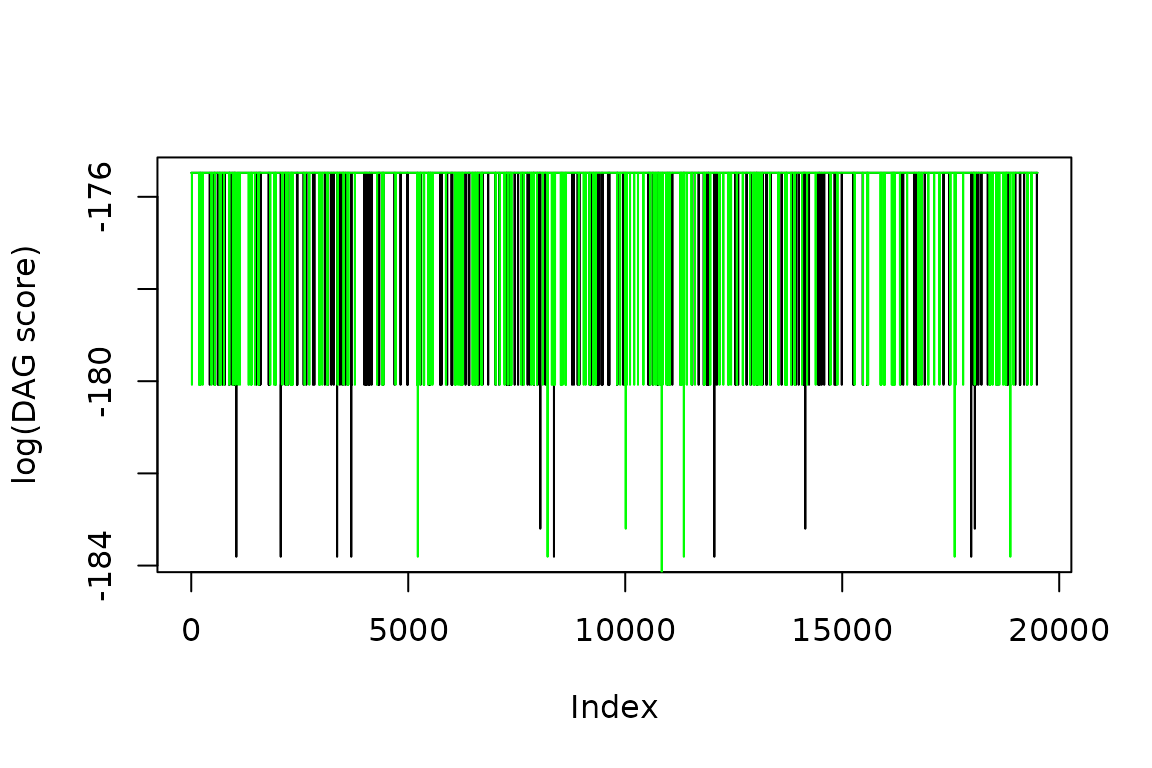
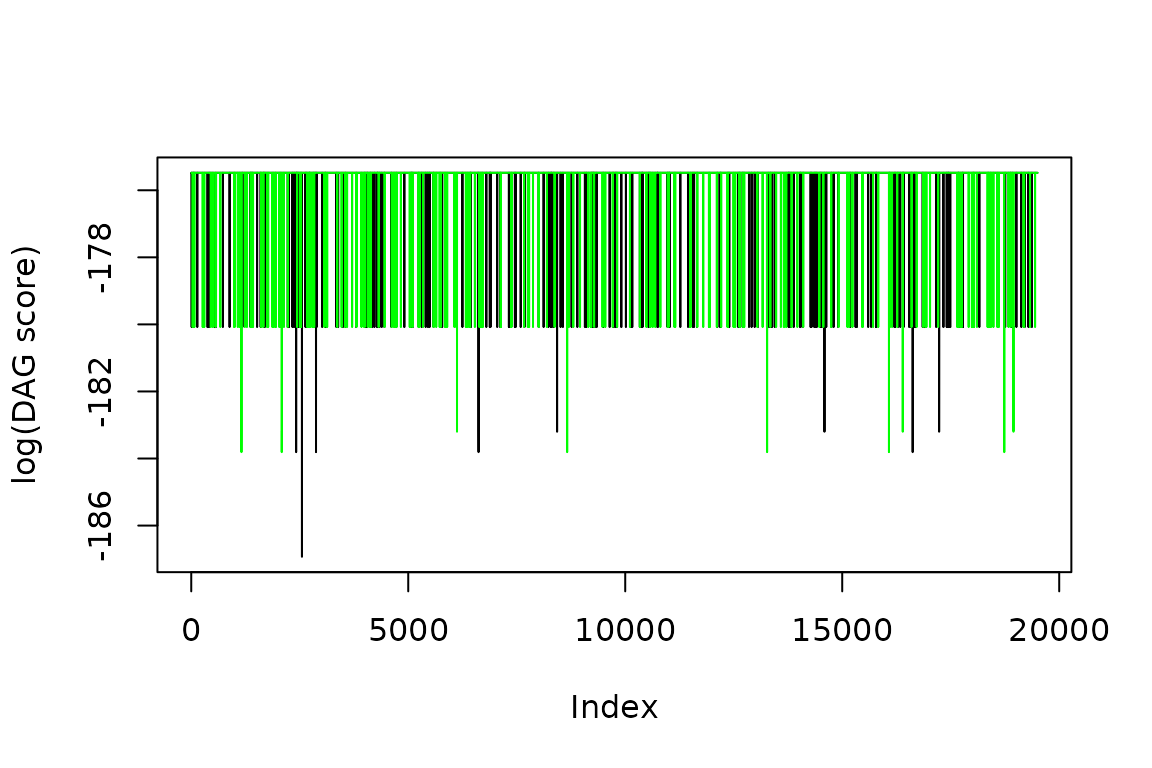
Deploying to gh-pages from @ SpaceOdyssey/cia@616d849b5fc8180c3674a726a4c7c756c6bca079 🚀

diff --git a/articles/three_node_example.html b/articles/three_node_example.html
@@ -327,11 +327,11 @@ this for the log-score of the partitions:</p>
 <th align="right">R_hat</th>
 </tr></thead>
 <tbody><tr class="odd">
-<td align="right">-175.5363</td>
-<td align="right">0.5430065</td>
-<td align="right">0.0066452</td>
-<td align="right">6677.212</td>
-<td align="right">1.000093</td>
+<td align="right">-175.5326</td>
+<td align="right">0.5336984</td>
+<td align="right">0.0064915</td>
+<td align="right">6759.358</td>
+<td align="right">1.000343</td>
 </tr></tbody>
 </table>
 <p>This can also be performed for the log DAG scores.</p>
@@ -346,11 +346,11 @@ this for the log-score of the partitions:</p>
 <th align="right">R_hat</th>
 </tr></thead>
 <tbody><tr class="odd">
-<td align="right">-175.5721</td>
-<td align="right">0.6598133</td>
-<td align="right">0.0069661</td>
-<td align="right">8971.361</td>
-<td align="right">1.000039</td>
+<td align="right">-175.5692</td>
+<td align="right">0.6527434</td>
+<td align="right">0.0066557</td>
+<td align="right">9618.151</td>
+<td align="right">1.000253</td>
 </tr></tbody>
 </table>
 <p>The Split R-hat statistic provides a measure of the convergence of
@@ -410,18 +410,18 @@ from different locations converge to the same distribution.</p>
 <tbody>
 <tr class="odd">
 <td align="left">1</td>
-<td align="right">0.1182051</td>
+<td align="right">0.1194872</td>
 <td align="right">1</td>
 <td align="right">1</td>
-<td align="right">2305</td>
+<td align="right">2330</td>
 <td align="right">19500</td>
 </tr>
 <tr class="even">
 <td align="left">2</td>
-<td align="right">0.1172308</td>
+<td align="right">0.1186154</td>
 <td align="right">1</td>
 <td align="right">1</td>
-<td align="right">2286</td>
+<td align="right">2313</td>
 <td align="right">19500</td>
 </tr>
 </tbody>
@@ -491,19 +491,19 @@ DAGs.</p>
 <tr class="odd">
 <td align="left">A</td>
 <td align="right">0.0000000</td>
-<td align="right">0.3198205</td>
-<td align="right">0.0097436</td>
+<td align="right">0.3138718</td>
+<td align="right">0.0091795</td>
 </tr>
 <tr class="even">
 <td align="left">B</td>
-<td align="right">0.6798462</td>
+<td align="right">0.6857949</td>
 <td align="right">0.0000000</td>
-<td align="right">0.6779744</td>
+<td align="right">0.6724103</td>
 </tr>
 <tr class="odd">
 <td align="left">C</td>
-<td align="right">0.0098718</td>
-<td align="right">0.3220256</td>
+<td align="right">0.0095385</td>
+<td align="right">0.3275897</td>
 <td align="right">0.0000000</td>
 </tr>
 </tbody>
@@ -546,25 +546,25 @@ to reduce the error of the mean to below 1% corresponding to MCSE &lt;
 <td align="right">NaN</td>
 </tr>
 <tr class="even">
-<td align="right">0.6798462</td>
-<td align="right">0.4665415</td>
-<td align="right">0.0102084</td>
-<td align="right">2088.644</td>
-<td align="right">1.0003577</td>
+<td align="right">0.6857949</td>
+<td align="right">0.4642045</td>
+<td align="right">0.0100237</td>
+<td align="right">2144.696</td>
+<td align="right">1.0027498</td>
 </tr>
 <tr class="odd">
-<td align="right">0.0098718</td>
-<td align="right">0.0988665</td>
-<td align="right">0.0009118</td>
-<td align="right">11756.215</td>
-<td align="right">1.0000558</td>
+<td align="right">0.0095385</td>
+<td align="right">0.0971994</td>
+<td align="right">0.0008273</td>
+<td align="right">13805.473</td>
+<td align="right">0.9999966</td>
 </tr>
 <tr class="even">
-<td align="right">0.3198205</td>
-<td align="right">0.4664128</td>
-<td align="right">0.0102025</td>
-<td align="right">2089.905</td>
-<td align="right">1.0003584</td>
+<td align="right">0.3138718</td>
+<td align="right">0.4640709</td>
+<td align="right">0.0100263</td>
+<td align="right">2142.350</td>
+<td align="right">1.0027350</td>
 </tr>
 <tr class="odd">
 <td align="right">0.0000000</td>
@@ -574,25 +574,25 @@ to reduce the error of the mean to below 1% corresponding to MCSE &lt;
 <td align="right">NaN</td>
 </tr>
 <tr class="even">
-<td align="right">0.3220256</td>
-<td align="right">0.4672587</td>
-<td align="right">0.0098981</td>
-<td align="right">2228.512</td>
-<td align="right">1.0004477</td>
+<td align="right">0.3275897</td>
+<td align="right">0.4693403</td>
+<td align="right">0.0099278</td>
+<td align="right">2234.941</td>
+<td align="right">1.0023459</td>
 </tr>
 <tr class="odd">
-<td align="right">0.0097436</td>
-<td align="right">0.0982288</td>
-<td align="right">0.0008828</td>
-<td align="right">12381.368</td>
-<td align="right">0.9999734</td>
+<td align="right">0.0091795</td>
+<td align="right">0.0953701</td>
+<td align="right">0.0008003</td>
+<td align="right">14202.732</td>
+<td align="right">1.0002640</td>
 </tr>
 <tr class="even">
-<td align="right">0.6779744</td>
-<td align="right">0.4672587</td>
-<td align="right">0.0098981</td>
-<td align="right">2228.512</td>
-<td align="right">1.0004477</td>
+<td align="right">0.6724103</td>
+<td align="right">0.4693403</td>
+<td align="right">0.0099278</td>
+<td align="right">2234.941</td>
+<td align="right">1.0023459</td>
 </tr>
 <tr class="odd">
 <td align="right">0.0000000</td>
@@ -675,19 +675,19 @@ performed for these values for a complete analysis.</p>
 <tr class="odd">
 <td align="left">A</td>
 <td align="right">0.0000000</td>
-<td align="right">0.3199487</td>
-<td align="right">0.3185897</td>
+<td align="right">0.3140000</td>
+<td align="right">0.3131026</td>
 </tr>
 <tr class="even">
 <td align="left">B</td>
-<td align="right">0.6799744</td>
+<td align="right">0.6858718</td>
 <td align="right">0.0000000</td>
-<td align="right">0.6779744</td>
+<td align="right">0.6724103</td>
 </tr>
 <tr class="odd">
 <td align="left">C</td>
-<td align="right">0.3213333</td>
-<td align="right">0.3220256</td>
+<td align="right">0.3271282</td>
+<td align="right">0.3275897</td>
 <td align="right">0.0000000</td>
 </tr>
 </tbody>
@@ -746,11 +746,11 @@ SD 95% of the time.</p>
 <th align="right">R_hat</th>
 </tr></thead>
 <tbody><tr class="odd">
-<td align="right">0.6636853</td>
-<td align="right">0.1260443</td>
-<td align="right">0.0027593</td>
-<td align="right">2086.702</td>
-<td align="right">1.000358</td>
+<td align="right">0.6652984</td>
+<td align="right">0.1254295</td>
+<td align="right">0.0027098</td>
+<td align="right">2142.52</td>
+<td align="right">1.002745</td>
 </tr></tbody>
 </table>
 <p>Let’s also look at the convergence using the cumulative mean trace

diff --git a/index.html b/index.html
@@ -65,7 +65,7 @@
 <div class="section level2">
 <h2 id="use">Use<a class="anchor" aria-label="anchor" href="#use"></a>
 </h2>
-<p>There is function documentation along with an example in the vignettes.</p>
+<p>We provide a simple <a href="https://spaceodyssey.github.io/cia/articles/three_node_example.html">example</a> and function <a href="https://spaceodyssey.github.io/cia/reference/index.html">documentation</a>.</p>
 <p><a href="https://github.com/SpaceOdyssey/cia/actions/workflows/R-CMD-check.yaml" class="external-link"><img src="https://github.com/SpaceOdyssey/cia/actions/workflows/R-CMD-check.yaml/badge.svg" alt="R-CMD-check"></a> <a href="https://codecov.io/github/SpaceOdyssey/cia" class="external-link"><img src="https://codecov.io/github/SpaceOdyssey/cia/graph/badge.svg?token=NELX4A88RT" alt="codecov"></a></p>
 </div>
 </div>
